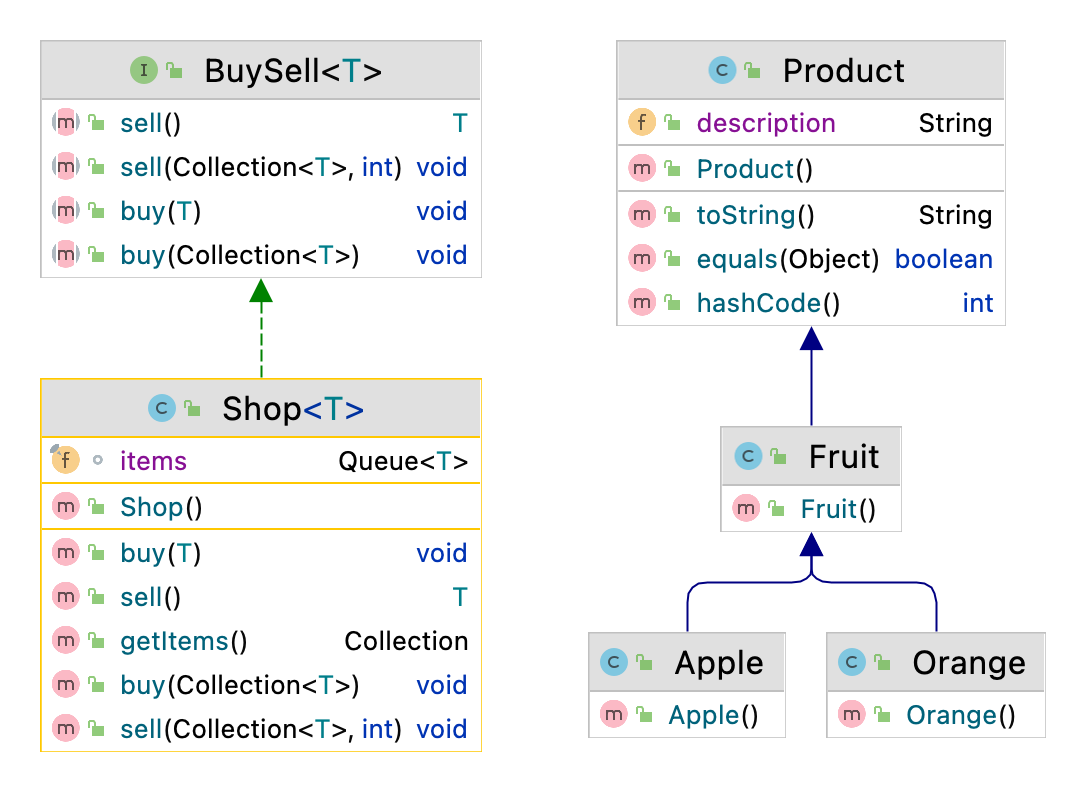
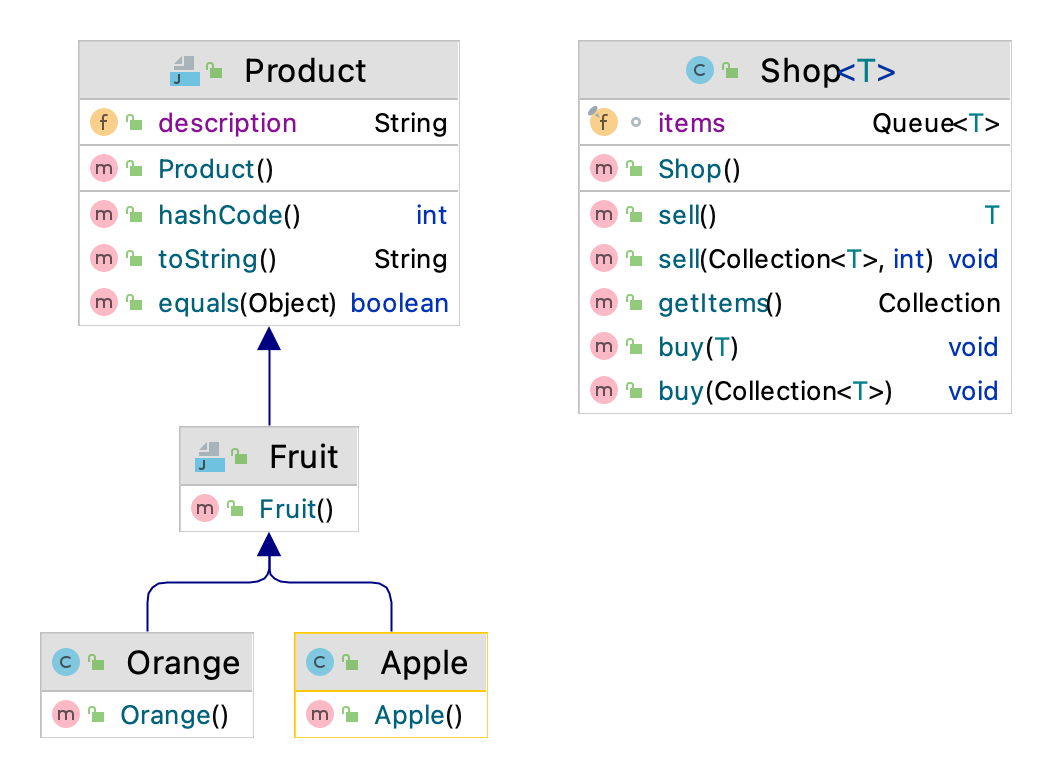
update

diff --git a/java/code/src/test/java/oop/generics/exercises/shop/ShopTest.java b/java/code/src/test/java/oop/generics/exercises/shop/ShopTest.java
@@ -1,19 +1,16 @@
 package oop.generics.exercises.shop;
 
-import oop.generics.exercises.shop.*;
 import org.junit.jupiter.api.Test;
 
 import java.util.ArrayList;
 import java.util.List;
 
-import static org.junit.jupiter.api.Assertions.*;
+import static org.junit.jupiter.api.Assertions.assertEquals;
 
 class ShopTest {
-
     @Test
     void SingleTypeSingleObject() {
         Shop<Fruit> fruitShop = new Shop<>();
-
         fruitShop.buy(new Fruit());
         assertEquals(List.of(new Fruit()), fruitShop.getItems());
         assertEquals(new Fruit(), fruitShop.sell());
@@ -22,10 +19,8 @@ class ShopTest {
     @Test
     void SingleTypeCollections() {
         Shop<Fruit> fruitShop = new Shop<>();
-
         fruitShop.buy(List.of(new Fruit(), new Fruit(), new Fruit()));
         assertEquals(List.of(new Fruit(), new Fruit(), new Fruit()), fruitShop.getItems());
-
         List<Fruit> fruitList = new ArrayList<>();
         fruitShop.sell(fruitList, 3);
         assertEquals(List.of(new Fruit(), new Fruit(), new Fruit()), fruitList);
@@ -34,10 +29,8 @@ class ShopTest {
     @Test
     void SubTypesSingleObject() {
         Shop<Fruit> fruitShop = new Shop<>();
-
         fruitShop.buy(new Orange());
         assertEquals(List.of(new Orange()), fruitShop.getItems());
-
         Product product = fruitShop.sell();
         assertEquals(new Orange(), product);
     }
@@ -45,10 +38,9 @@ class ShopTest {
     @Test
     void SubTypesCollections() {
         Shop<Fruit> fruitShop = new Shop<>();
-
-        fruitShop.buy(List.of(new Orange(), new Orange(), new Apple()));
+        List<Orange> orangeList = new ArrayList<>(List.of(new Orange(), new Orange(), new Orange()));
+        fruitShop.buy(orangeList);
         assertEquals(List.of(new Orange(), new Orange(), new Apple()), fruitShop.getItems());
-
         List<Product> productList = new ArrayList<>();
         fruitShop.sell(productList, 3);
         assertEquals(List.of(new Orange(), new Orange(), new Apple()), productList);

diff --git a/java/code/src/main/java/oop/generics/exercises/animal/TestApp.java b/java/code/src/main/java/oop/generics/exercises/animal/TestApp.java
@@ -1,0 +1,49 @@
+package oop.generics.exercises.animal;
+
+import java.util.*;
+
+public class TestApp {
+
+    public static <T extends Comparable<? super T>> T max(List<T> list) {
+        T candidate = list.get(0);
+        for (int i = 0; i < list.size(); i++) {
+            T next = list.get(i);
+            if (candidate.compareTo(next) < 0) {
+                candidate = next;
+            }
+        }
+        return candidate;
+    }
+
+    public static <T extends Comparable<? super T>> T max(List<T> list, Comparator<T> cmp) {
+        T candidate = list.get(0);
+        for (int i = 0; i < list.size(); i++) {
+            T next = list.get(i);
+            if (cmp.compare(candidate, next) < 0) {
+                candidate = next;
+            }
+        }
+        return candidate;
+    }
+
+    public static void main(String[] args) {
+        List<Dog> dogs = new ArrayList<>(List.of(
+                new Dog(20.3, 31.3),
+                new Dog(22.5, 15.7),
+                new Dog(19.5, 17.4),
+                new Dog(16.2, 21.6)));
+        System.out.println(dogs);
+        System.out.println(max(dogs));
+        System.out.println(max(dogs, new Comparator<Dog>() {
+
+            @Override
+            public int compare(Dog o1, Dog o2) {
+                return (int) (o1.barkingRate - o2.barkingRate);
+            }
+        }));
+
+        List<Animal> animals = new ArrayList<>(dogs);
+        System.out.println(animals);
+        System.out.println(max(animals));
+    }
+}

diff --git a/java/code/src/main/java/oop/generics/exercises/shop/Product.java b/java/code/src/main/java/oop/generics/exercises/shop/Product.java
@@ -3,12 +3,16 @@ package oop.generics.exercises.shop;
 import java.util.Objects;
 
 public class Product {
-
     public String description;
 
     public Product() {
         super();
         description = "A product";
+    }
+
+    @Override
+    public int hashCode() {
+        return Objects.hash(description);
     }
 
     @Override
@@ -19,11 +23,6 @@ public class Product {
             return false;
         Product product = (Product) o;
         return Objects.equals(description, product.description);
-    }
-
-    @Override
-    public int hashCode() {
-        return Objects.hash(description);
     }
 
     @Override

diff --git a/java/code/src/main/java/oop/generics/exercises/animal/Animal.java b/java/code/src/main/java/oop/generics/exercises/animal/Animal.java
@@ -1,0 +1,21 @@
+package oop.generics.exercises.animal;
+
+import org.jetbrains.annotations.NotNull;
+
+public class Animal implements Comparable<Animal> {
+    double respiratoryRate;
+
+    public Animal(double respiratoryRate) {
+        this.respiratoryRate = respiratoryRate;
+    }
+
+    @Override
+    public String toString() {
+        return "Animal{" + "respiratoryRate=" + respiratoryRate + '}';
+    }
+
+    @Override
+    public int compareTo(@NotNull Animal o) {
+        return (int)(respiratoryRate - o.respiratoryRate);
+    }
+}

diff --git a/java/code/src/main/java/oop/generics/exercises/animal/Dog.java b/java/code/src/main/java/oop/generics/exercises/animal/Dog.java
@@ -1,0 +1,15 @@
+package oop.generics.exercises.animal;
+
+public class Dog extends Animal {
+    double barkingRate;
+
+    public Dog(double respiratoryRate, double barkingRate) {
+        super(respiratoryRate);
+        this.barkingRate = barkingRate;
+    }
+
+    @Override
+    public String toString() {
+        return "Dog{" + "respiratoryRate=" + respiratoryRate + ", barkingRate=" + barkingRate + '}';
+    }
+}

diff --git a/java/code/src/main/java/oop/generics/exercises/shop/Shop.java b/java/code/src/main/java/oop/generics/exercises/shop/Shop.java
@@ -7,7 +7,7 @@ import java.util.*;
  *
  * @author Nicola Bicocchi
  */
-public class Shop<T> implements BuySell<T> {
+public class Shop<T> {
     final Queue<T> items;
 
     public Shop() {
